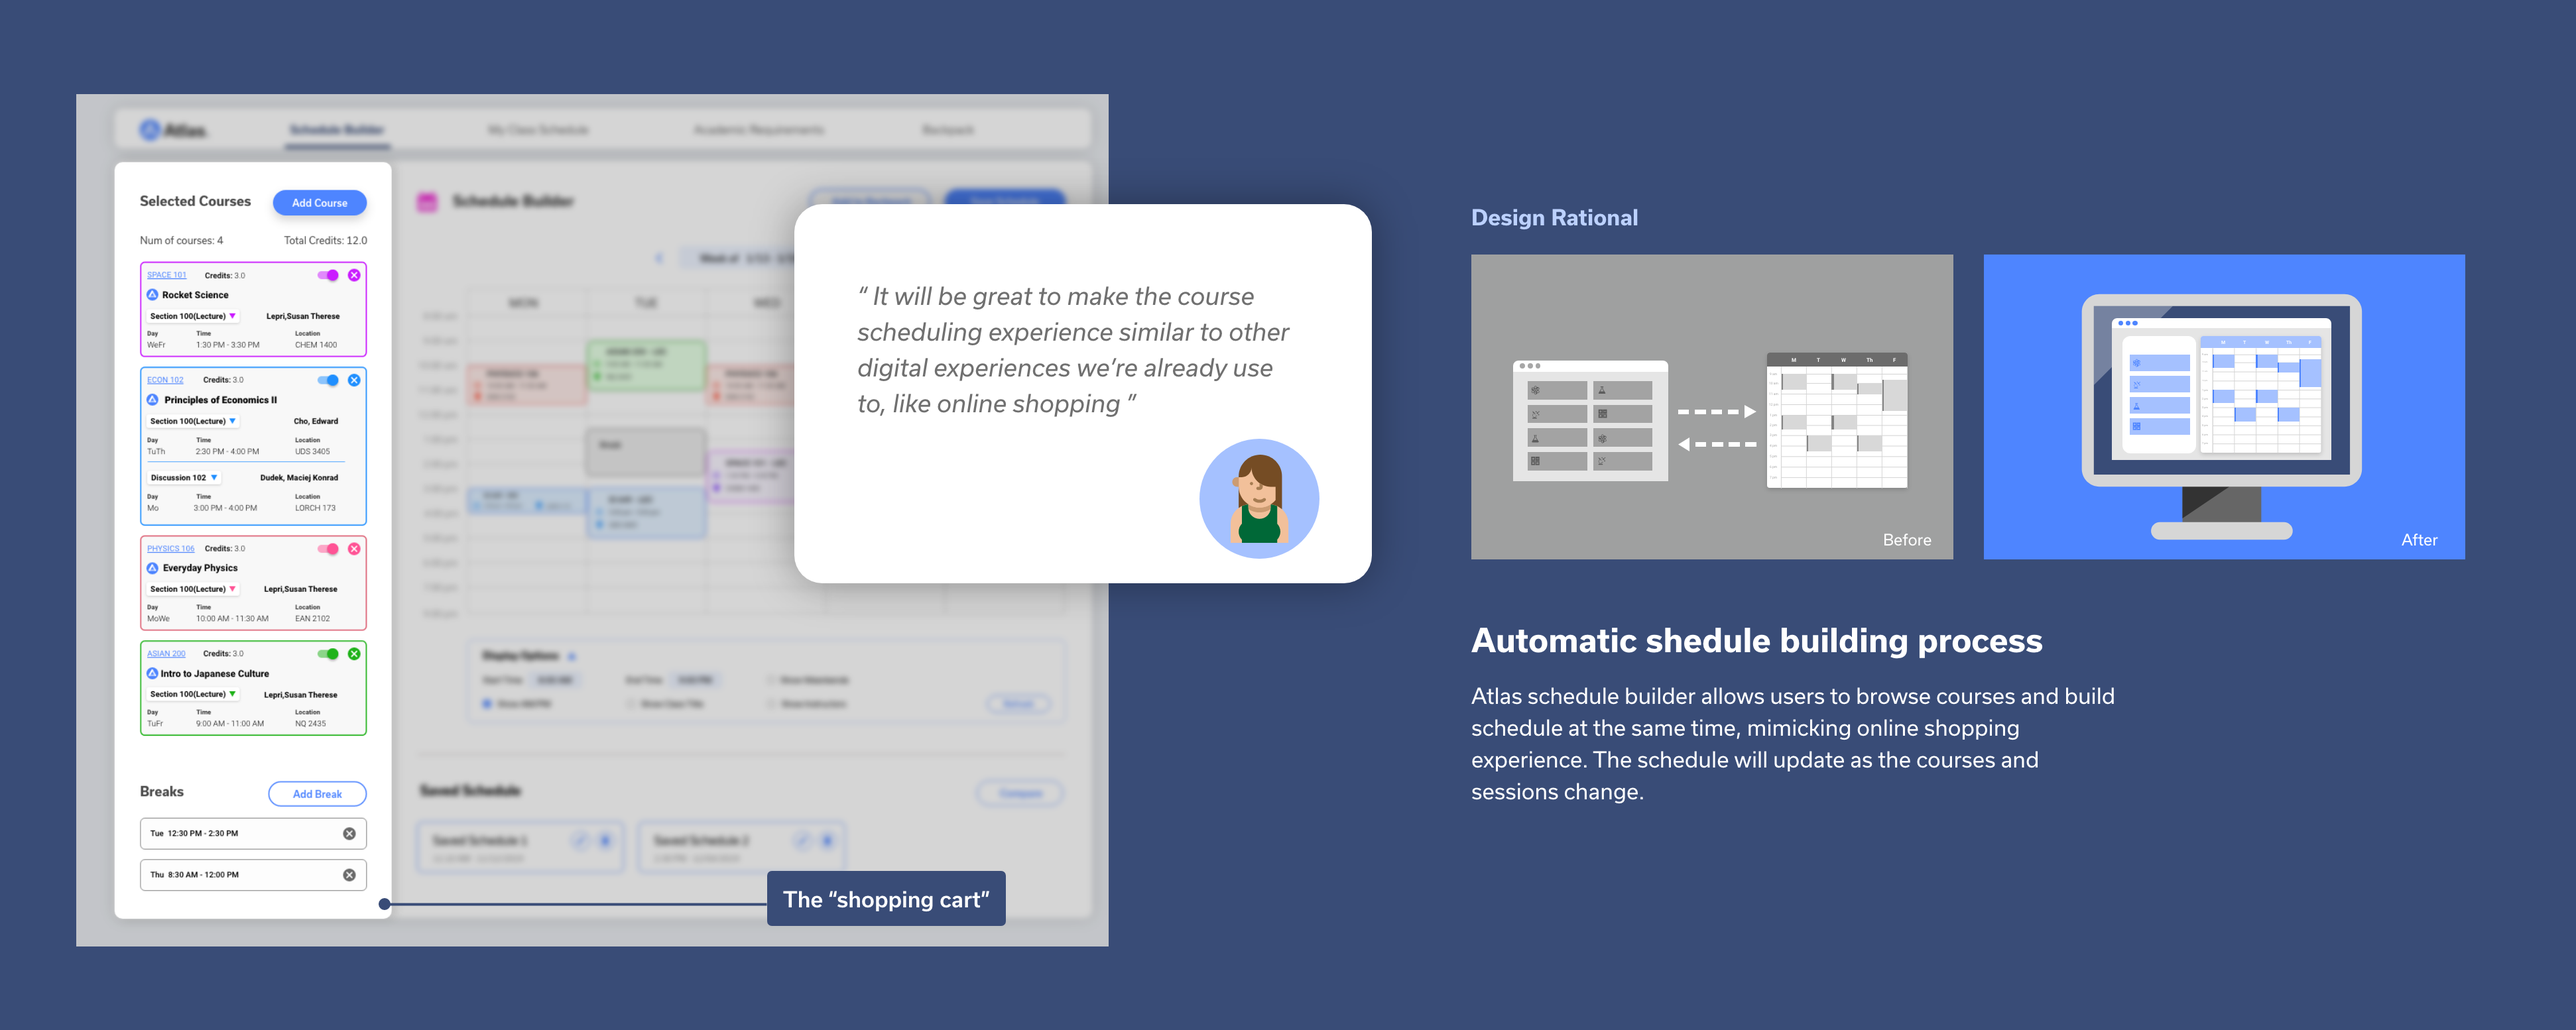
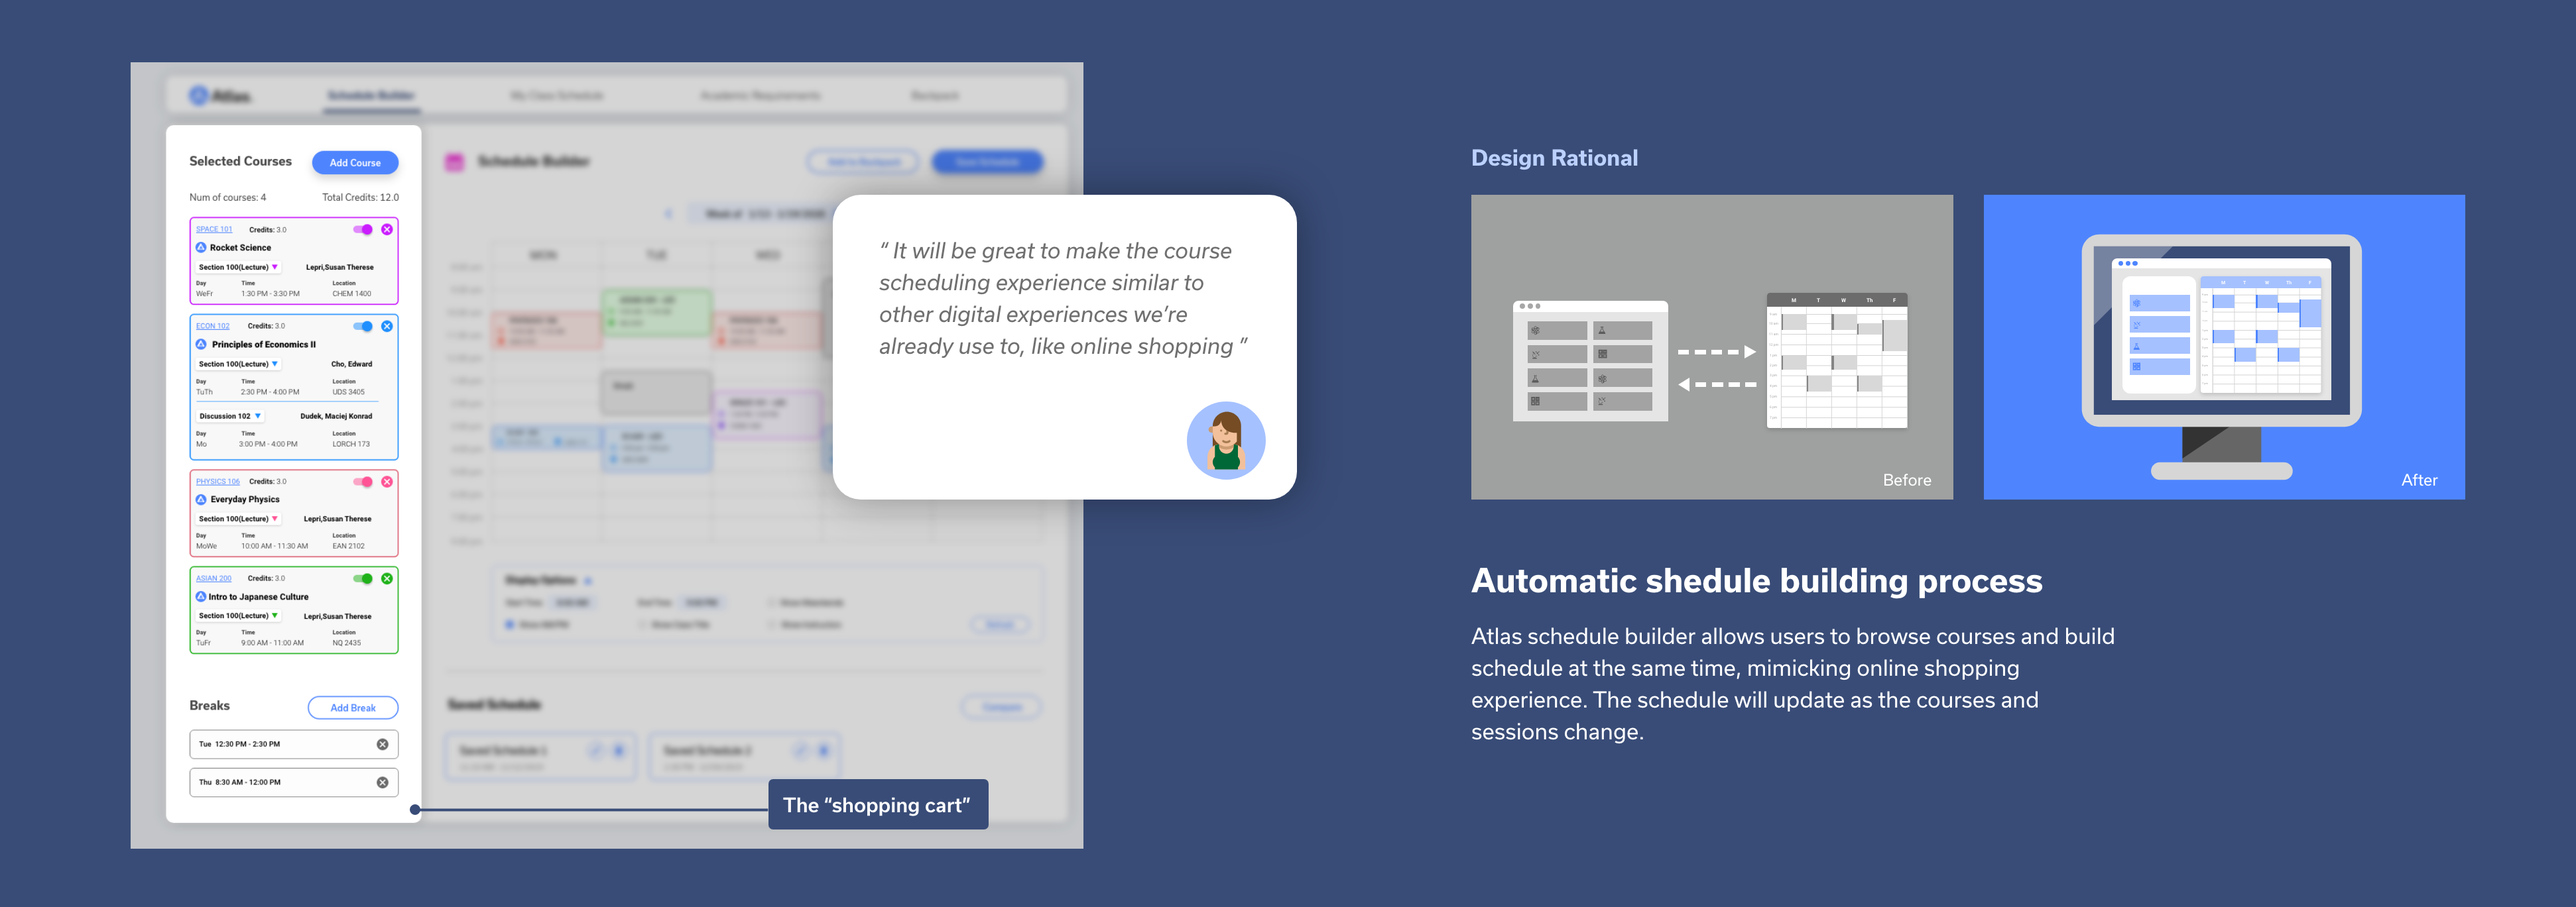
Add files via upload

diff --git a/atlas_s.html b/atlas_s.html
@@ -193,7 +193,7 @@
 					<h3>Efficient and informative schedule builder</h3>
 					<p >Atlas schedule builder allows student users to browse through courses, review rich course data and build personalized course schedules with selected courses.  Users can add courses to the schedule through searching or from their course collections in Atlas. The schedule builder also provides various academic data to support decision making throughout the process.</p>
 					<a style="text-decoration: underline;" href="https://xd.adobe.com/view/736e1b3d-cc39-4960-5964-60da3a7b4bc1-055f/?fullscreen" target="_blank">Prototype Link</a>
-                    
+                    <img src="atlas_s/pr_1.png" class="img-responsive">
 					<!--Design Overview-->
 					<div class="row vcenter design_overview " style="margin-bottom:0; padding-bottom: 0;" >
                         <div class="col-sm-12 col-md-7 col-lg-7" style="padding-right:2em; padding-bottom: 0;">
@@ -201,7 +201,8 @@
 						</div>
 							
                     	<div class="col-sm-12 col-md-5 col-lg-5">
-                        	<h6>1. Responsive schedule building</h6>
+							<h5>Solution</h5>
+                        	<h6>Responsive schedule building</h6>
 							<p style="font-size: 12px;">When building their schedules, users have the Select Course panel on the left which serves like a “shopping cart”. Users can toggle to turn courses on and off and switch different sections. </p>
 							<p style="font-size: 12px;">The schedule will update based on the Select Course panel so that users can try multiple combinations until that find the ideal schedule. </p>
 						</div>
@@ -211,7 +212,7 @@
 			</div>
 
 		</div>
-		<div class="fh5co-section" style="padding-top: 0; padding-bottom: 0;">
+		<div class="fh5co-section" style="padding-top: 2em; padding-bottom: 0;">
 				<div class="row vcenter design_overview_mobile row-bottom-padded-md" >
 					<img src="atlas_s/dd_1.png" class="img-responsive">
 				</div>
